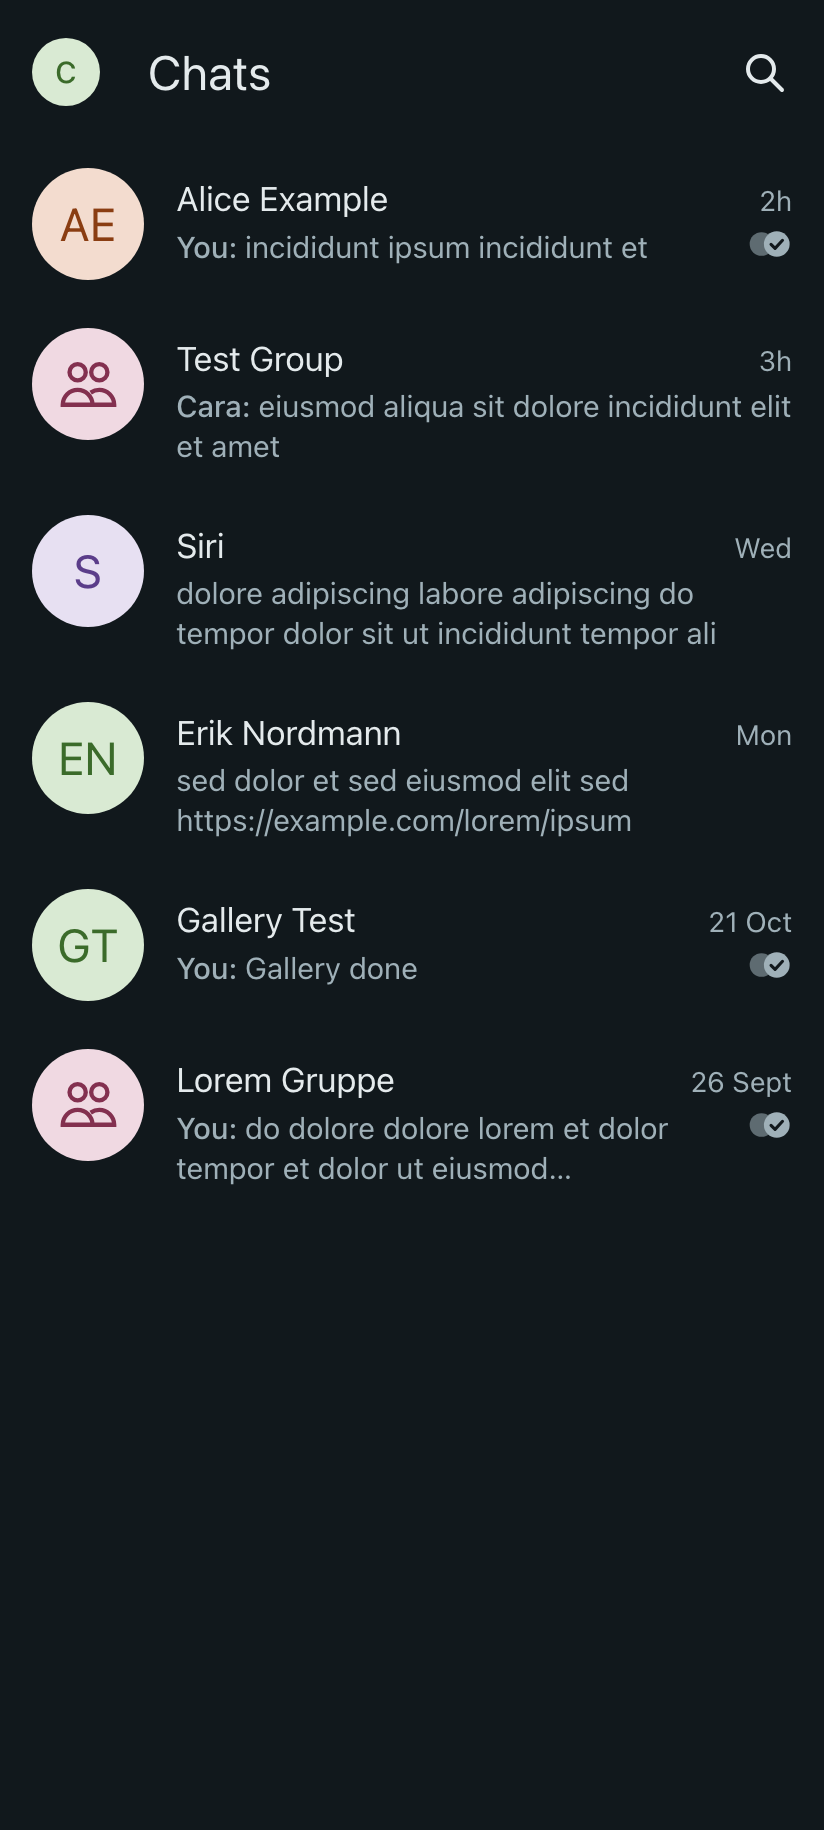
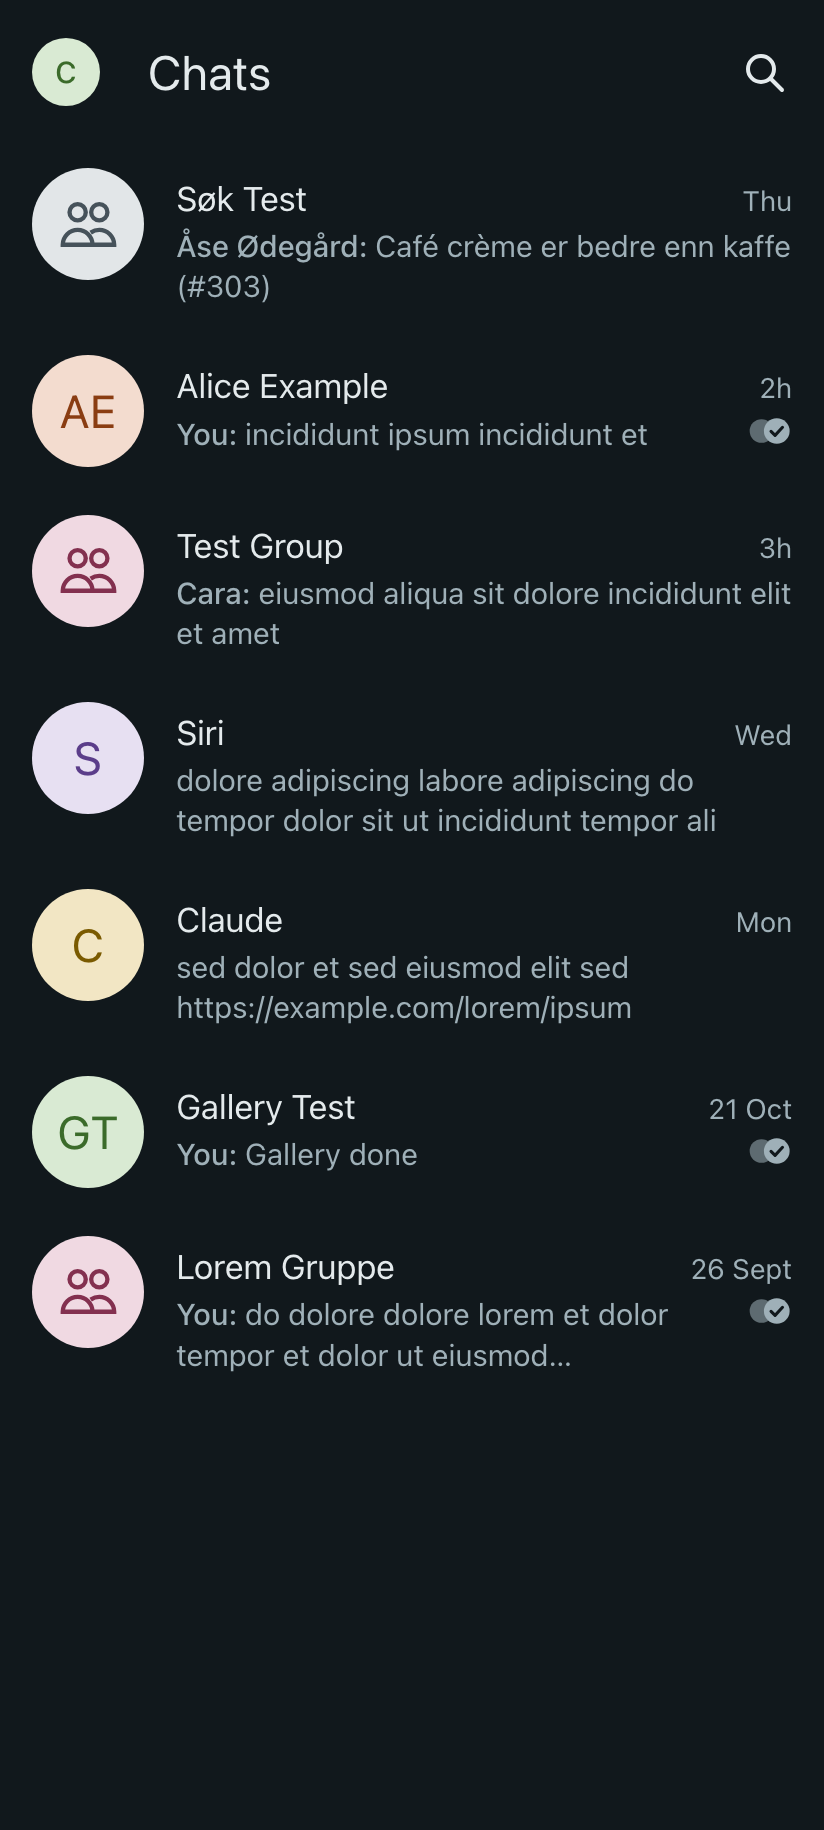
v0.1.4: home reset, link-check fix, new screenshots

diff --git a/viewer/viewer.js b/viewer/viewer.js
@@ -13,7 +13,7 @@ var I18N={
   sub:'Archive · {n} messages · {m} photos/videos',loadFail:'Could not load data/{n}.js – rebuild the viewer.',
   deleted:'Deleted message',call:'Call',missed:'Missed call',unknownDate:'Unknown date',older:'Scroll up for older messages ({n})',
   noHits:'0 matches',noMedia:'No photos or videos in this chat.',prevHit:'Previous match',nextHit:'Next match',
-  zoom:'Zoom',smaller:'Smaller',larger:'Larger',close:'Close (Esc)',fullscreen:'Fullscreen (F)',prev:'Previous',next:'Next',gsearch:'Search all chats',none:'No matches',hitsN:'{n} matches',inChats:'in {n} chats',from:'From',to:'To',sender:'Sender',chatF:'Chat',all:'All',images:'Photos',video:'Video',audio:'Audio',files:'Files',links:'Links',backRes:'Back to results',newest:'Newest first',oldest:'Oldest first',relevance:'Relevance',searching:'Searching…',newer:'Scroll down for newer messages ({n})'},
+  zoom:'Zoom',smaller:'Smaller',larger:'Larger',close:'Close (Esc)',fullscreen:'Fullscreen (F)',prev:'Previous',next:'Next',gsearch:'Search all chats',home:'Home',none:'No matches',hitsN:'{n} matches',inChats:'in {n} chats',from:'From',to:'To',sender:'Sender',chatF:'Chat',all:'All',images:'Photos',video:'Video',audio:'Audio',files:'Files',links:'Links',backRes:'Back to results',newest:'Newest first',oldest:'Oldest first',relevance:'Relevance',searching:'Searching…',newer:'Scroll down for newer messages ({n})'},
  nb:{locale:'nb-NO',search:'Søk',searchChat:'Søk i samtalen',back:'Tilbake',media:'Media',messages:'Meldinger',
   pick:'Velg en samtale',pickHint:'Ingen samtaler? Kjør build_viewer.py på nytt etter flere eksporter.',readonly:'Arkiv – skrivebeskyttet',
   today:'I dag',yesterday:'I går',you:'Deg',youSubj:'Du',unavailable:'Media utilgjengelig',audioUnavailable:'Lyd utilgjengelig',
@@ -21,7 +21,7 @@ var I18N={
   sub:'Arkiv · {n} meldinger · {m} bilder/videoer',loadFail:'Kunne ikke laste data/{n}.js – bygg visningen på nytt.',
   deleted:'Slettet melding',call:'Anrop',missed:'Tapt anrop',unknownDate:'Ukjent dato',older:'Rull opp for eldre meldinger ({n})',
   noHits:'0 treff',noMedia:'Ingen bilder eller videoer i denne samtalen.',prevHit:'Forrige treff',nextHit:'Neste treff',
-  zoom:'Zoom',smaller:'Mindre',larger:'Større',close:'Lukk (Esc)',fullscreen:'Fullskjerm (F)',prev:'Forrige',next:'Neste',gsearch:'Søk i alle samtaler',none:'Ingen treff',hitsN:'{n} treff',inChats:'i {n} samtaler',from:'Fra',to:'Til',sender:'Avsender',chatF:'Samtale',all:'Alle',images:'Bilder',video:'Video',audio:'Lyd',files:'Filer',links:'Lenker',backRes:'Tilbake til resultater',newest:'Nyeste først',oldest:'Eldste først',relevance:'Relevans',searching:'Søker…',newer:'Rull ned for nyere meldinger ({n})'}
+  zoom:'Zoom',smaller:'Mindre',larger:'Større',close:'Lukk (Esc)',fullscreen:'Fullskjerm (F)',prev:'Forrige',next:'Neste',gsearch:'Søk i alle samtaler',home:'Hjem',none:'Ingen treff',hitsN:'{n} treff',inChats:'i {n} samtaler',from:'Fra',to:'Til',sender:'Avsender',chatF:'Samtale',all:'Alle',images:'Bilder',video:'Video',audio:'Lyd',files:'Filer',links:'Lenker',backRes:'Tilbake til resultater',newest:'Nyeste først',oldest:'Eldste først',relevance:'Relevans',searching:'Søker…',newer:'Rull ned for nyere meldinger ({n})'}
 };
 var LANG=I18N[CFG.lang]?CFG.lang:'en',L=I18N[LANG];
 function T(k,v){var s=L[k]!=null?L[k]:(I18N.en[k]!=null?I18N.en[k]:k);if(v)Object.keys(v).forEach(function(x){s=s.split('{'+x+'}').join(v[x])});return s}
@@ -428,5 +428,28 @@ if(HP.gs!=null){gsOpen(true);$('gq').value=HP.gs;if(HP.gtype)$('gtype').value=HP
   if(HP.hit)(function w(){if(GS.flat&&GS.flat.length){var h=GS.flat[+HP.hit];openChat(h.c,h.i)}else setTimeout(w,50)})()}
 if(q&&HP.rp!=null)(function w(){var r=chat&&document.querySelector('#msgs .reacts[data-i="'+(HP.rp==='last'?msgs.length-1:+HP.rp)+'"]');if(r){r.scrollIntoView({block:'center'});setTimeout(function(){RP.force=true;rpShow(r.querySelector('.pill')||r,true)},150)}else setTimeout(w,50)})();
 if(q&&HP.cs)(function w(){if(chat){window.__search(HP.cs);if(HP.cn)setTimeout(function(){for(var k=0;k<+HP.cn;k++)step(-1)},300)}else setTimeout(w,50)})();
+// ---- Home reset: title/avatar click or Esc with nothing open
+function home(){
+  rpHide();if(!$('lb').hidden)closeLB();
+  GS.gen++;GS.q=null;GS.res=[];GS.flat=[];GS.shown=0;
+  ['gq','gsender','gfrom','gto'].forEach(function(id){$(id).value=''});$('gchat').value='';$('gtype').value='0';$('gsort').value='new';
+  $('gres').textContent='';$('gcount').textContent='';gsOpen(false);
+  $('chatfilter').value='';$('lfilter').hidden=true;
+  $('search').value='';term='';hits=[];hitPos=-1;qterms=null;$('scount').textContent='';tools(false,false);
+  $('backres').hidden=true;
+  if(chat){showTab('msg');start=Math.max(0,msgs.length-CHUNK);end=msgs.length;renderMsgs(true)}
+  renderList();
+  document.body.classList.remove('inchat');
+  if(location.hash)try{history.replaceState(null,'',location.pathname+location.search)}catch(e){}
+}
+['apptitle','meav'].forEach(function(id){var e=$(id);e.classList.add('homebtn');e.tabIndex=0;e.setAttribute('role','button');
+  e.setAttribute('aria-label',T('home'));e.title=T('home');
+  e.addEventListener('click',home);e.addEventListener('keydown',function(ev){if(ev.key==='Enter'||ev.key===' '){ev.preventDefault();home()}})});
+window.addEventListener('keydown',function(e){if(e.key!=='Escape')return;
+  if(RP.anchor||!$('lb').hidden)return; // handled by popover / lightbox handlers
+  if(GS.open){gsOpen(false);return}
+  if(!$('tools').hidden||$('chat').classList.contains('toolsopen')){tools(false,false);return}
+  home()},true);
+window.__home=home;
 window.__openChat=openChat;window.__search=function(v){tools(true,true);$('search').value=v;doSearch()};window.__openLB=openLB;
 })();

diff --git a/viewer/viewer.css b/viewer/viewer.css
@@ -214,3 +214,9 @@ mark.cur{background:var(--hitcur)}
 .pillbtn{background:var(--pill);color:var(--text);border-radius:var(--r-pill);padding:4px 10px;font:12px var(--font);flex:none;white-space:nowrap}
 @keyframes flashmsg{0%,40%{background:color-mix(in srgb,var(--hitcur) 45%,transparent)}100%{background:transparent}}
 .flash{animation:flashmsg 2.2s ease-out}
+/* Home reset: app title + avatar */
+.side-head h1.homebtn{flex:0 1 auto;margin-right:auto}
+.homebtn{cursor:pointer;border-radius:8px;user-select:none}
+.side-head .me.homebtn{border-radius:50%}
+.homebtn:hover{opacity:.85}
+.homebtn:focus-visible{outline:2px solid var(--accent);outline-offset:3px}

diff --git a/pipeline/dedup.py b/pipeline/dedup.py
@@ -1,6 +1,15 @@
 #!/usr/bin/env python3
 """dedup.py dedup|linkcheck|indexonly ROOT IDXDIR INDEX [--dry-run]
-IDXDIR = top-level dir name of the chat under ROOT (e.g. 006_Name). Prints one JSON line. No message text is printed."""
+IDXDIR = top-level dir name of the chat under ROOT (e.g. 006_Name). Prints one JSON line. No message text is printed.
+
+Attachments sigexport itself could not export are not link failures:
+- data.json attachments with "missing_kind" set (sigexport placeholder, empty path), and
+- data.json/chat.md refs to ./media/<file> where <file> never existed in the chat's
+  media/ dir before dedup (sigexport's "No file to copy ... skipping!" case).
+dedup/indexonly record the pre-dedup media listing in <dir of INDEX>/present/<IDXDIR>.json
+so linkcheck can tell "never exported" from "broken by dedup". Those are reported as
+missing_reported and do not fail the link check. Optional env LC_SIGLOG=<sigexport output>
+adds a no_file_lines count (corroboration only)."""
 import sys, os, re, json, hashlib, html
 
 def md5(p):
@@ -43,8 +52,9 @@ def main():
     dry = '--dry-run' in sys.argv
     base = os.path.join(root, idxdir)
     if mode == 'linkcheck':
-        return linkcheck(root, base)
+        return linkcheck(root, base, indexp, idxdir)
     index = load_index(indexp)
+    record_present(base, root, indexp, idxdir, dry)
     stats = dict(media=0, deduped=0, saved=0, kept=0, repl_md=0, repl_html=0, repl_json=0, errors=[])
     newentries = []
     verified = {}
@@ -138,9 +148,48 @@ def main():
                 f.write(m + '\t' + p + '\n')
     print(json.dumps(stats))
 
-def linkcheck(root, base):
-    missing = 0; total = 0; examined = 0
+def present_path(indexp, idxdir):
+    return os.path.join(os.path.dirname(os.path.abspath(indexp)), 'present', idxdir + '.json')
+
+def record_present(base, root, indexp, idxdir, dry):
+    """Remember which media files sigexport actually wrote (before any dedup deletes)."""
+    pp = present_path(indexp, idxdir)
+    if dry or os.path.exists(pp):
+        return  # keep the first (pre-dedup) listing on re-runs
+    pres = {}
     for cd in chat_dirs(base):
+        mdir = os.path.join(cd, 'media')
+        pres[os.path.relpath(cd, root)] = sorted(os.listdir(mdir)) if os.path.isdir(mdir) else []
+    os.makedirs(os.path.dirname(pp), exist_ok=True)
+    atomic_write(pp, json.dumps(pres, ensure_ascii=False))
+
+def reported_missing_kinds(cd):
+    """Count data.json attachments sigexport flagged with missing_kind."""
+    fp = os.path.join(cd, 'data.json'); n = 0
+    if not os.path.exists(fp):
+        return 0
+    for line in rd(fp).splitlines():
+        line = line.strip()
+        if not line:
+            continue
+        try:
+            o = json.loads(line)
+        except ValueError:
+            continue
+        for a in (o.get('attachments') or []) if isinstance(o, dict) else []:
+            if isinstance(a, dict) and a.get('missing_kind'):
+                n += 1
+    return n
+
+def linkcheck(root, base, indexp=None, idxdir=None):
+    missing = 0; total = 0; reported = set(); kinds = 0
+    pres = None
+    if indexp and idxdir and os.path.exists(present_path(indexp, idxdir)):
+        pres = json.loads(rd(present_path(indexp, idxdir)))
+    for cd in chat_dirs(base):
+        kinds += reported_missing_kinds(cd)
+        rel = os.path.relpath(cd, root)
+        had = set(pres.get(rel, [])) if pres is not None else None
         for fname, rx, key in (('chat.md', MD_RE2, 'md'), ('index.html', HT_RE2, 'html'), ('data.json', JS_RE2, 'json')):
             fp = os.path.join(cd, fname)
             if not os.path.exists(fp):
@@ -156,9 +205,19 @@ def linkcheck(root, base):
                     continue
                 total += 1
                 if not os.path.isfile(os.path.normpath(os.path.join(cd, ref))):
+                    own = re.match(r'^(?:\./)?media/(.+)$', ref)
+                    if own and had is not None and own.group(1) not in had:
+                        # sigexport never wrote this file: reported missing, not a dedup break
+                        reported.add((rel, own.group(1)))
+                        continue
                     missing += 1
                     if os.environ.get('LC_DEBUG'): print(fname, repr(ref[:70]), file=sys.stderr)
-    print(json.dumps(dict(links=total, missing=missing)))
+    out = dict(links=total, missing=missing, missing_reported=len(reported) + kinds,
+               missing_files=len(reported), missing_kind=kinds)
+    lg = os.environ.get('LC_SIGLOG')
+    if lg and os.path.exists(lg):
+        out['no_file_lines'] = sum(1 for l in open(lg, encoding='utf8', errors='replace') if 'No file to copy' in l)
+    print(json.dumps(out))
     return 0 if missing == 0 else 1
 
 MD_RE2 = re.compile(r'\]\((\.{1,2}/[^\n]*?)\)(?=[ \t]*(?:\n|$|!?\[))')

diff --git a/README.md b/README.md
@@ -46,6 +46,8 @@ What changes:
 
 **Viewer** (`viewer/`)
 - chat list, message bubbles, reactions, quotes, call-history lines
+- hover (desktop) or tap (touch) a reaction to see who reacted with which emoji
+- Home reset: click the app title or the round avatar at the top left, or press Esc when nothing is open, to close searches, the media tab and the lightbox and jump every chat back to its newest messages
 - square media grid with zoom slider, ctrl/cmd + mouse wheel and pinch zoom
 - fullscreen lightbox
 - global search with filters and jump-to-message
@@ -55,7 +57,7 @@ What changes:
 **Pipeline** (`pipeline/`)
 - resumable per-chat export with sigexport (state in `OUT_DIR/_state`)
 - md5 media dedup across chats: the first copy wins, and the `chat.md`, `index.html` and `data.json` links of later copies are rewritten to point at it
-- link check after dedup; a chat that fails the check is re-exported without dedup
+- link check after dedup; a chat that fails the check is re-exported without dedup. Attachments that sigexport itself reported missing at export time (`missing_kind` set in `data.json`) are left out of the link check, so they don't block dedup, and are counted in the manifest column `missing_reported`
 - optional `rclone copy` + `rclone check --one-way` per chat; local exports are never deleted
 - stickers are exported once
 - disk-space guards (pause below `MIN_FREE_GIB`, abort the current chat below `ABORT_FREE_GIB`)
@@ -66,6 +68,7 @@ What changes:
 |---|---|
 | ![Media grid](docs/screenshots/wide_media.png) | ![Global search](docs/screenshots/global_desktop.png) |
 | ![Lightbox](docs/screenshots/lightbox.png) | ![Search filters](docs/screenshots/global_filters.png) |
+| ![Who reacted](docs/screenshots/reactions.png) | ![Chat list (phone)](docs/screenshots/list.png) |
 
 All screenshots use synthetic test data.
 

diff --git a/CHANGELOG.md b/CHANGELOG.md
@@ -1,5 +1,10 @@
 # Changelog
 
+## v0.1.4 (build 3) — 2026-11-05
+- Home reset: clicking the app title or avatar (or Esc with nothing open) closes searches, media tab, lightbox and popovers and returns every chat to its newest messages
+- Link check ignores attachments that sigexport reported missing at export time; new manifest column missing_reported
+- Screenshots refreshed with new synthetic test names, plus a reactions screenshot
+
 ## v0.1.1 (build 2) — 2026-11-05
 - Reaction hover/tap popover showing who reacted with which emoji
 
